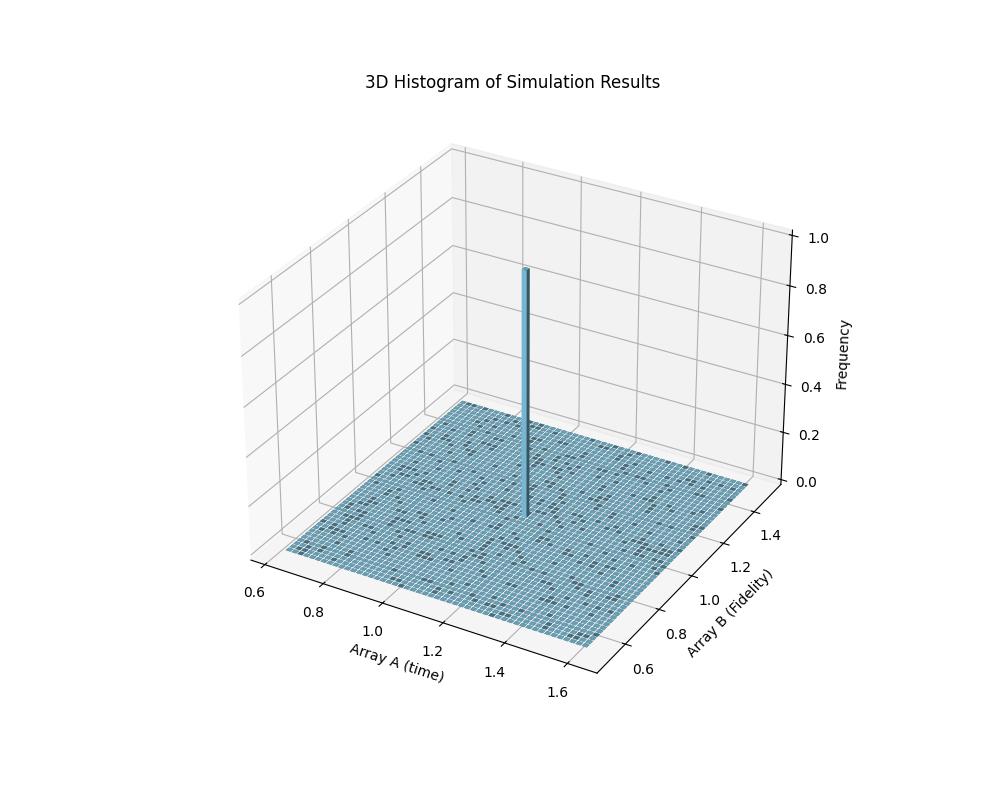
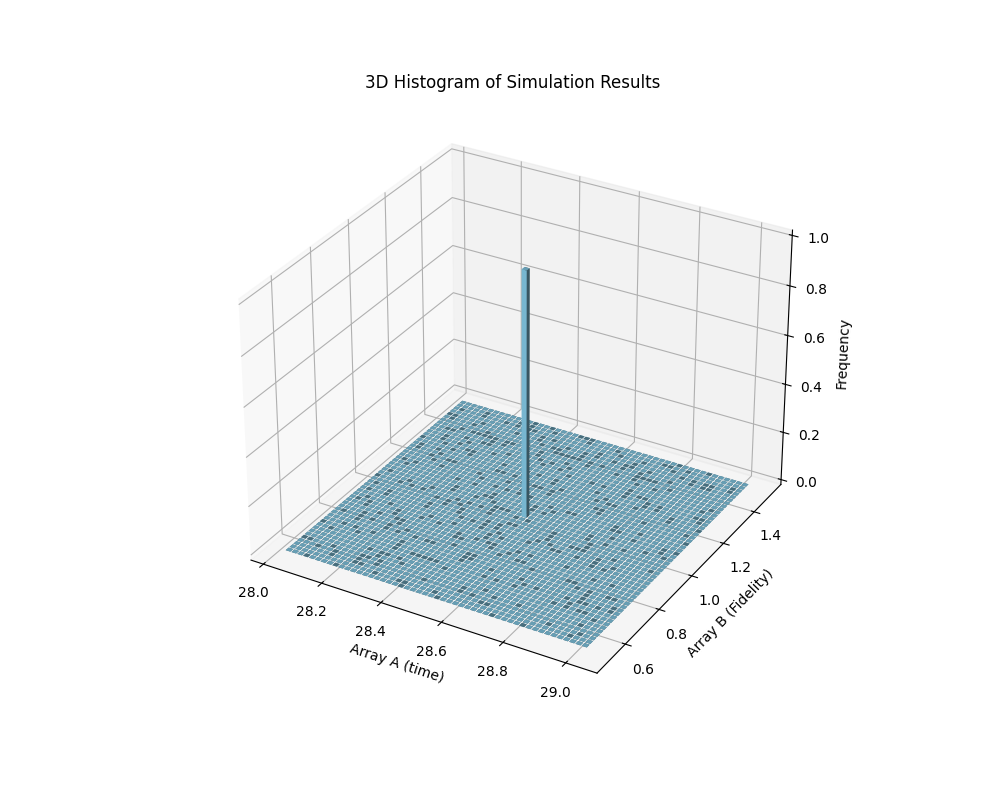
ion cordination and succsess time is too late

diff --git a/Montecallo_single_photon_1us_photonloss_changed.py b/Montecallo_single_photon_1us_photonloss_changed.py
@@ -1849,6 +1849,7 @@ def main_loop():
                   remain_num = [0] #pileまでのカウンタ
                   remain = [0] #pileの保存ver
                   sucstep = 0
+                  breakmark = 0
                   df = 0
 
 
@@ -1911,7 +1912,7 @@ def main_loop():
                             ion += 1
                             segments[0].one_load = False
                             onside_sucstep.append(step) 
-                            print(f"1回目片方のみ完了{suc},ion{ion-1}")
+                            print(f"1回目片方のみ完了{suc},ion{ion-1},onside_sucnum{onside_sucnum}")
                             ion_time.append(step)
                             boo.append(1)
 
@@ -1994,12 +1995,12 @@ def main_loop():
 
                                             else:#10us以内にこなかった場合はシンプルにbomで消す。
                                                 bom = 1
-                                                bom_count.append(0)  
+                                                bom_count = np.append(bom_count, 0) 
                                                 del ion_time[1]
                                                 del ion_time[1]
                                                 del boo[1]
                                                 del boo[1]
-                                                del flag[1]
+                                                flag = np.delete(flag, 1)
                                                 del flag_num[1]
                                                 del pile_step[1]
 
@@ -2011,12 +2012,12 @@ def main_loop():
 
                                         else:#ある時間後にけすような操作
                                             bom = 1
-                                            bom_count.append(0)
+                                            bom_count = np.append(bom_count, 0)
                                             del ion_time[1]
                                             del ion_time[1]
                                             del boo[1]
                                             del boo[1]
-                                            del flag[1] #2つのみの場合なので、delで良い.また、bomの場合は、消えるのは、1番目の要素なので、1とした
+                                            flag = np.delete(flag, 1) #2つのみの場合なので、delで良い.また、bomの場合は、消えるのは、1番目の要素なので、1とした
                                             suc = 1
                                             del flag_num[1]
                                             del pile_step[1]
@@ -2042,6 +2043,7 @@ def main_loop():
                                                  del boo[1]
                                                  del boo[1]
                                                  ion -= 3 #プログラム上、両方を消すときは、-2で考える
+                                                 breakmark = 1
                                                             
 
                                         else:
@@ -2050,12 +2052,13 @@ def main_loop():
                                             del boo[1]
                                             del boo[1]
                                             ion -= 3
+                                            breakmark = 1
                                             
 
 
                                     elif flag[remove] == 3:#oneとoneが10us以内に出来たときの処理
                                         if len(ion_time) > 3:
-                                            if ion_time[3] - ion_time[2] <= 10 and boo[3] == 1 :#boo=1はワンサイドboo=2は両方
+                                            if ion_time[3] - ion_time[1] <= 10 and boo[3] == 1 :#boo=1はワンサイドboo=2は両方
                                                 remain.append(ion_time[2]-ion_time[1])
                                                 second_atem.append(1)#removeは1になるはずだから、デバックがてら1にした
                                                 del ion_time[1]
@@ -2063,7 +2066,7 @@ def main_loop():
                                                 ion -= 1
                                                 flag[remove] = 3 #boo[3] == 1、つまり、ワンサイドより、suc oneの順番で光子が入る事状況の処理に、flag[remove] = 2にすることで持って行く
                                             
-                                            elif ion_time[3] - ion_time[2] <= 10 and boo[3] == 2 :
+                                            elif ion_time[3] - ion_time[1] <= 10 and boo[3] == 2 :
                                                 remain.append(ion_time[2]-ion_time[1])
                                                 second_atem.append(1)#removeは1になるはずだから、デバックがてら1にした
                                                 del ion_time[1]
@@ -2078,25 +2081,26 @@ def main_loop():
                                             else:#oneとoneのみの場合
                                                  del ion_time[1]
                                                  del ion_time[1] #長さが3だから見られるトリック
-                                                 ion -= 3 #プログラム上、両方を消すときは、-2で考える
+                                                 ion -= 2 #プログラム上、両方を消すときは、-2で考える
                                                  del boo[1]
                                                  del boo[1]           
 
                                         else:#oneとoneのみの場合
                                             del ion_time[1]
                                             del ion_time[1] #長さが3だから見られるトリック
-                                            ion -= 3 
+                                            ion -= 2
                                             del boo[1]
                                             del boo[1]
+                                            del flag[1]
 
                                     elif flag[remove] == 0:#bomを待っている間
                                         pass #bomのwaitingtime
 
-                                    if num_len(flag) >= 2:#余剰flagの削除
-                                        for i in range(flag_num):
+                                    if len(flag) >= 2:#余剰flagの削除
+                                        for i in range(len(flag_num)):
                                             if i != 0 and i % 2 != 0:#左を基準にするから、i%2としてかまわない、また、ionの組が、2/1/2になることはあり得ないのでi%2と出来る
                                                 if  ion_time[i+1] - ion_time[i] > 10 :
-                                                    del flag[i]
+                                                    flag = np.delete(flag, 1)
                                                     del flag_num[i]
                                                     del pile_step[i]
 
@@ -2104,14 +2108,19 @@ def main_loop():
                         if bom == 1 :
                             print("bom!!!")
                             
-                            for i in range(num_len(bom_count)):
+                            for i in range(len(bom_count)):
                                 if i != 0:
                                     bom_count[i] += 1
 
                             if np.any(bom_count == 10):
                                 ion -= 3
+                                breakmark = 1
                                 bom =0
-                                del bom_count[1]
+                                bom_count = np.delete(bom_count, 1)
+                                suc = 0
+                                sucstep = 0
+
+
                                 
                                 # del ion_time[1] #bomの時は、いらないのでは？イオンの操作だけで十分
                                 # del ion_time[1]
@@ -2146,9 +2155,11 @@ def main_loop():
                                             bom2 = 0
                                             del bob2_count[1]
                                             del flag_num[1]
-                                            del flag[1]
+                                            flag = np.delete(flag, 1)
                                             ion -= 3
-                                            suc = 1
+                                            breakmark = 1
+                                            suc = 0 #suc=0にして、2つしかない事をいう
+                                            sucstep = 0
                                             
 
                                             
@@ -2175,7 +2186,7 @@ def main_loop():
                                                         
 
                                                     elif boo[1] == 2 and boo[2] == 2:#2つ成功がヘラルドで分かった場合はflag毎取り除く
-                                                        del flag[1]
+                                                        flag = np.delete(flag, 1)
                                                         del flag_num[1]
                                                         del boo[1]
                                                         del boo[1]
@@ -2184,12 +2195,14 @@ def main_loop():
                                                         
 
                                     elif boo[1] == 2 and boo[2] == 2 and bob2_count[1] <= 10:#10usの場合のみという制約をつける
-                                        del flag[1]
+                                        flag = np.delete(flag, 1)
                                         del flag_num[1]
                                         del boo[1]
                                         del boo[1]
                                         del ion_time[1]
                                         del ion_time[1]
+
+                                        
 
                                         del bob2_count[1]
 
@@ -2214,7 +2227,7 @@ def main_loop():
                                                             
 
                                                         elif boo[1] == 2 and boo[2] == 2:#これもflagの種類として、flag関数に入れても良いかも
-                                                            del flag[1]
+                                                            flag = np.delete(flag, 1)
                                                             del flag_num[1]
                                                             del boo[1]
                                                             del boo[1]
@@ -2229,11 +2242,11 @@ def main_loop():
 
                                
                                 
-                            if num_len(flag) >= 2:#余剰flagの削除
-                                            for i in range(flag_num):
+                            if len(flag) >= 2:#余剰flagの削除
+                                            for i in range(len(flag_num)):
                                                 if i != 0 and i % 2 != 0:
                                                     if  ion_time[i+1] - ion_time[i] > 10 :
-                                                        del flag[i]
+                                                        flag = np.delete(flag, 1)
                                                         del flag_num[i]
                                                         del pile_step[i]
                 
@@ -2241,7 +2254,9 @@ def main_loop():
 
                                     
 
-                                            
+                        if breakmark == 1:
+                            breakmark = 0
+                            break                    
 
                                     
 
@@ -2268,7 +2283,7 @@ def main_loop():
                         #両方のイオンが成功してから、もう一つの両方のイオンが出るまでの待機時間。片方イオンが出来たら、100us待つようにしないといけない。 
                         if suc == 2 and not all_complete:
                             step2 += 1 #これも配列にして処理しないと追えないかも
-                            print("suc2さんあなたが犯人です")
+                            #print("suc2さんあなたが犯人です")
 
                             #両方が一組しか成功していないときの待ち時間のリミット
                             if step2 == 11 and onside_sucnum == 0: #10+1と言う意味,onside_sucnum == 0で一つしか成功していないことを強調。
@@ -2300,7 +2315,7 @@ def main_loop():
                                     #suc = 0
                                 else:
                                     flag = np.append(flag, 2) 
-                                    pile_step.append(step2) 
+                                    pile_step.append(step2)#ここはstep2ではないかも知れない 
                                     sucstep = step2
                                     step2 = 0
                                     
